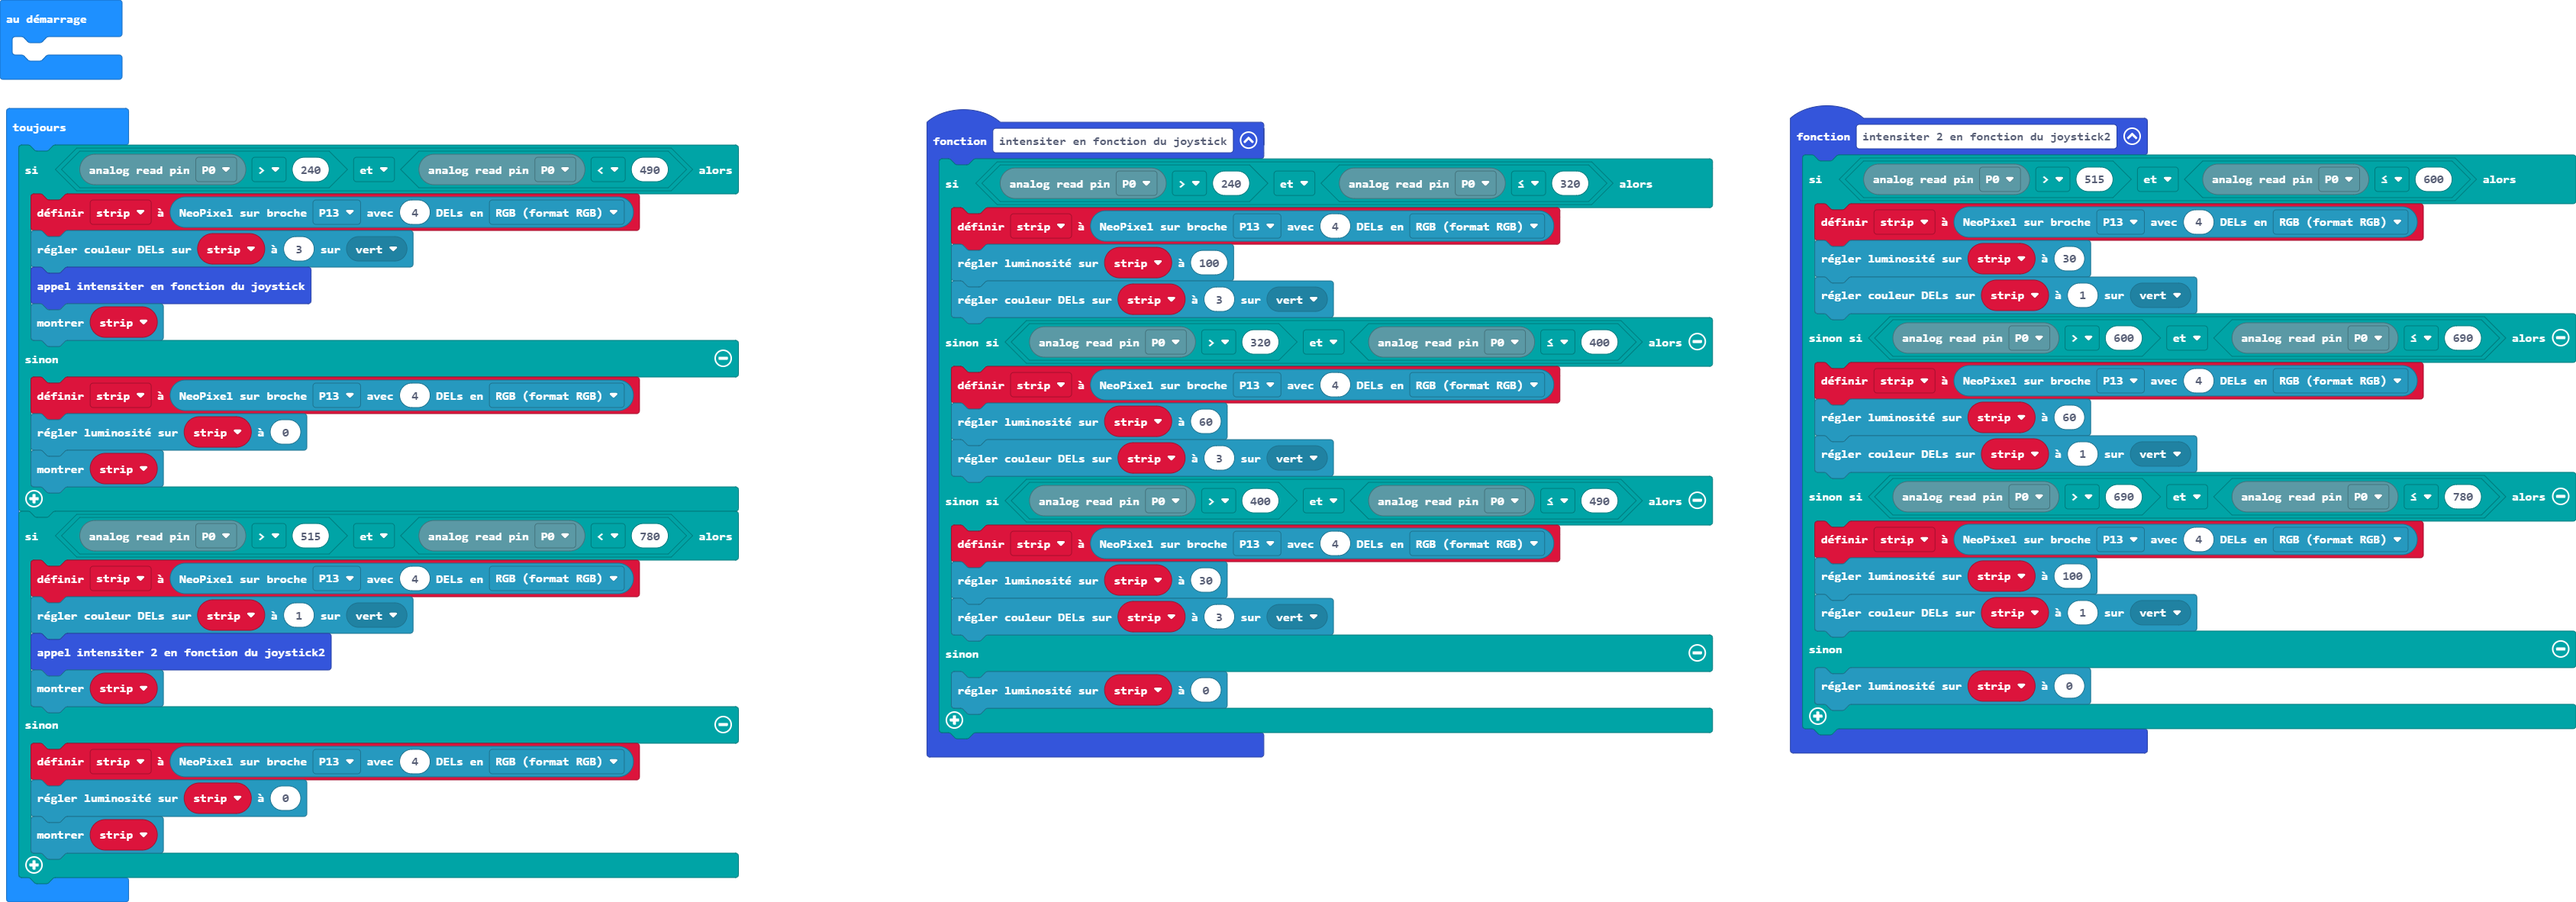
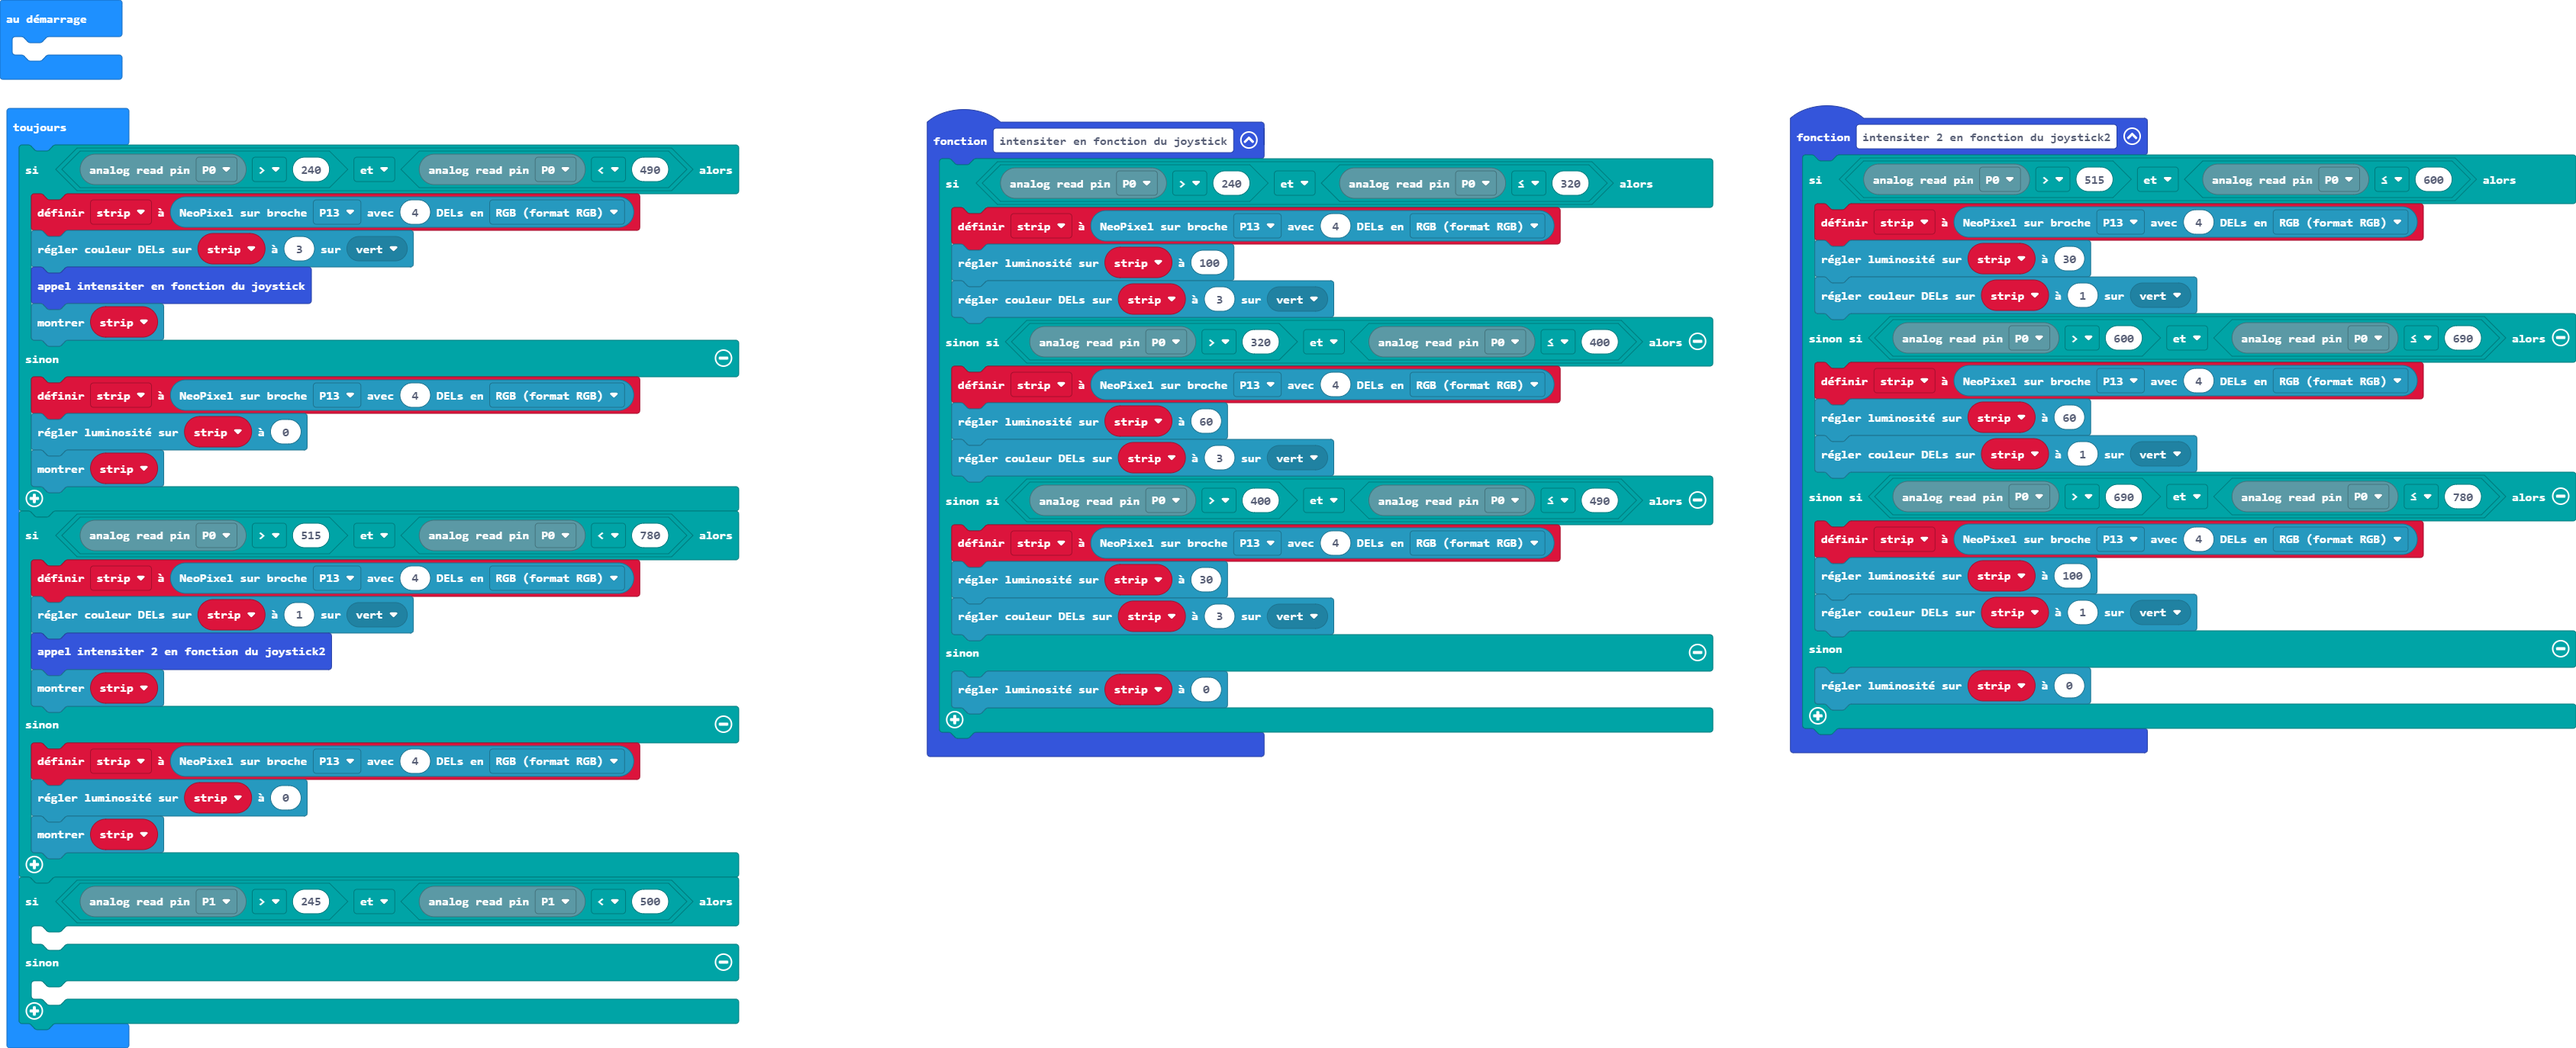
Mise à jour main.blocks, main.ts

diff --git a/main.ts b/main.ts
@@ -54,4 +54,9 @@ basic.forever(function () {
         strip.setBrightness(0)
         strip.show()
     }
+    if (BitMaker.read_Ain(AnalogPort.P1) > 245 && BitMaker.read_Ain(AnalogPort.P1) < 500) {
+    	
+    } else {
+    	
+    }
 })
